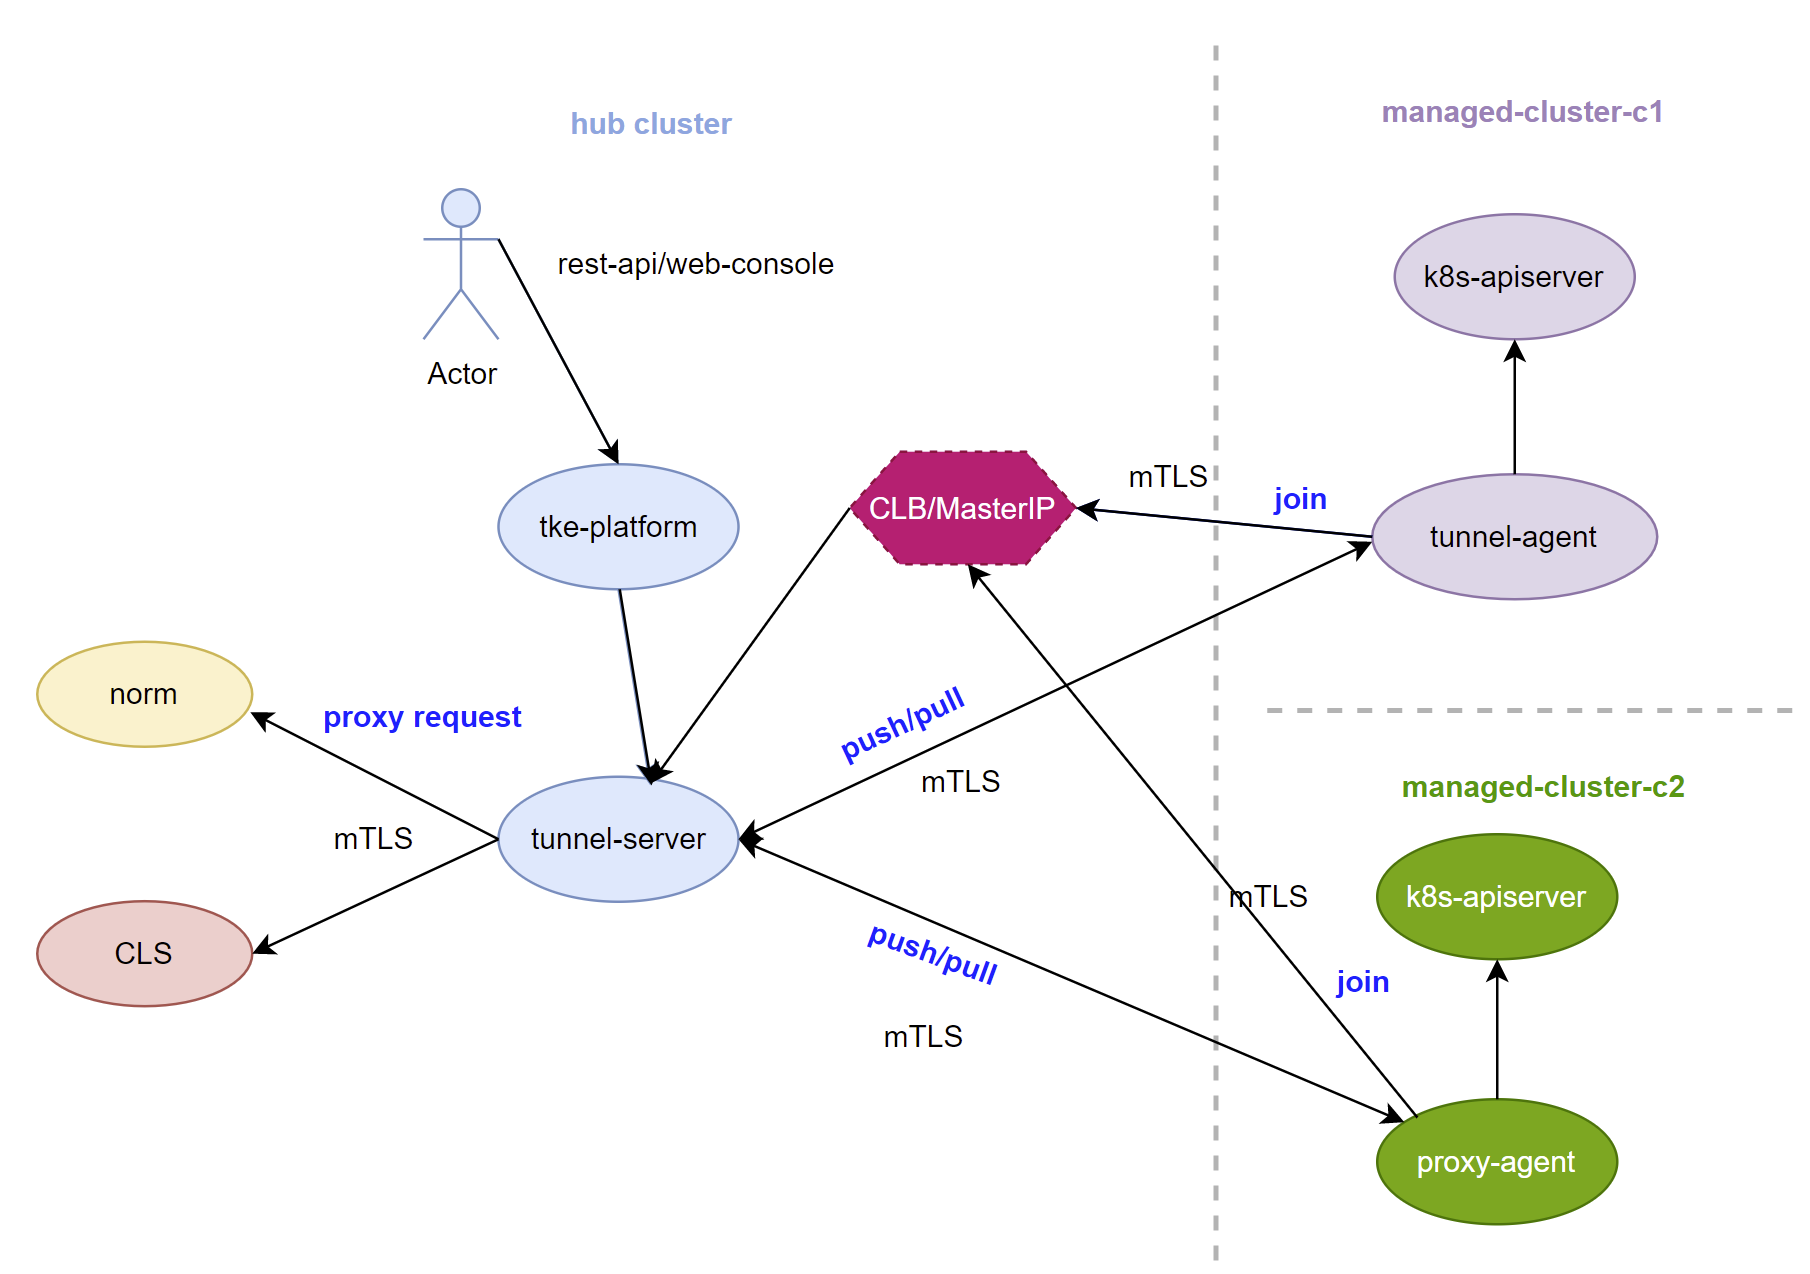
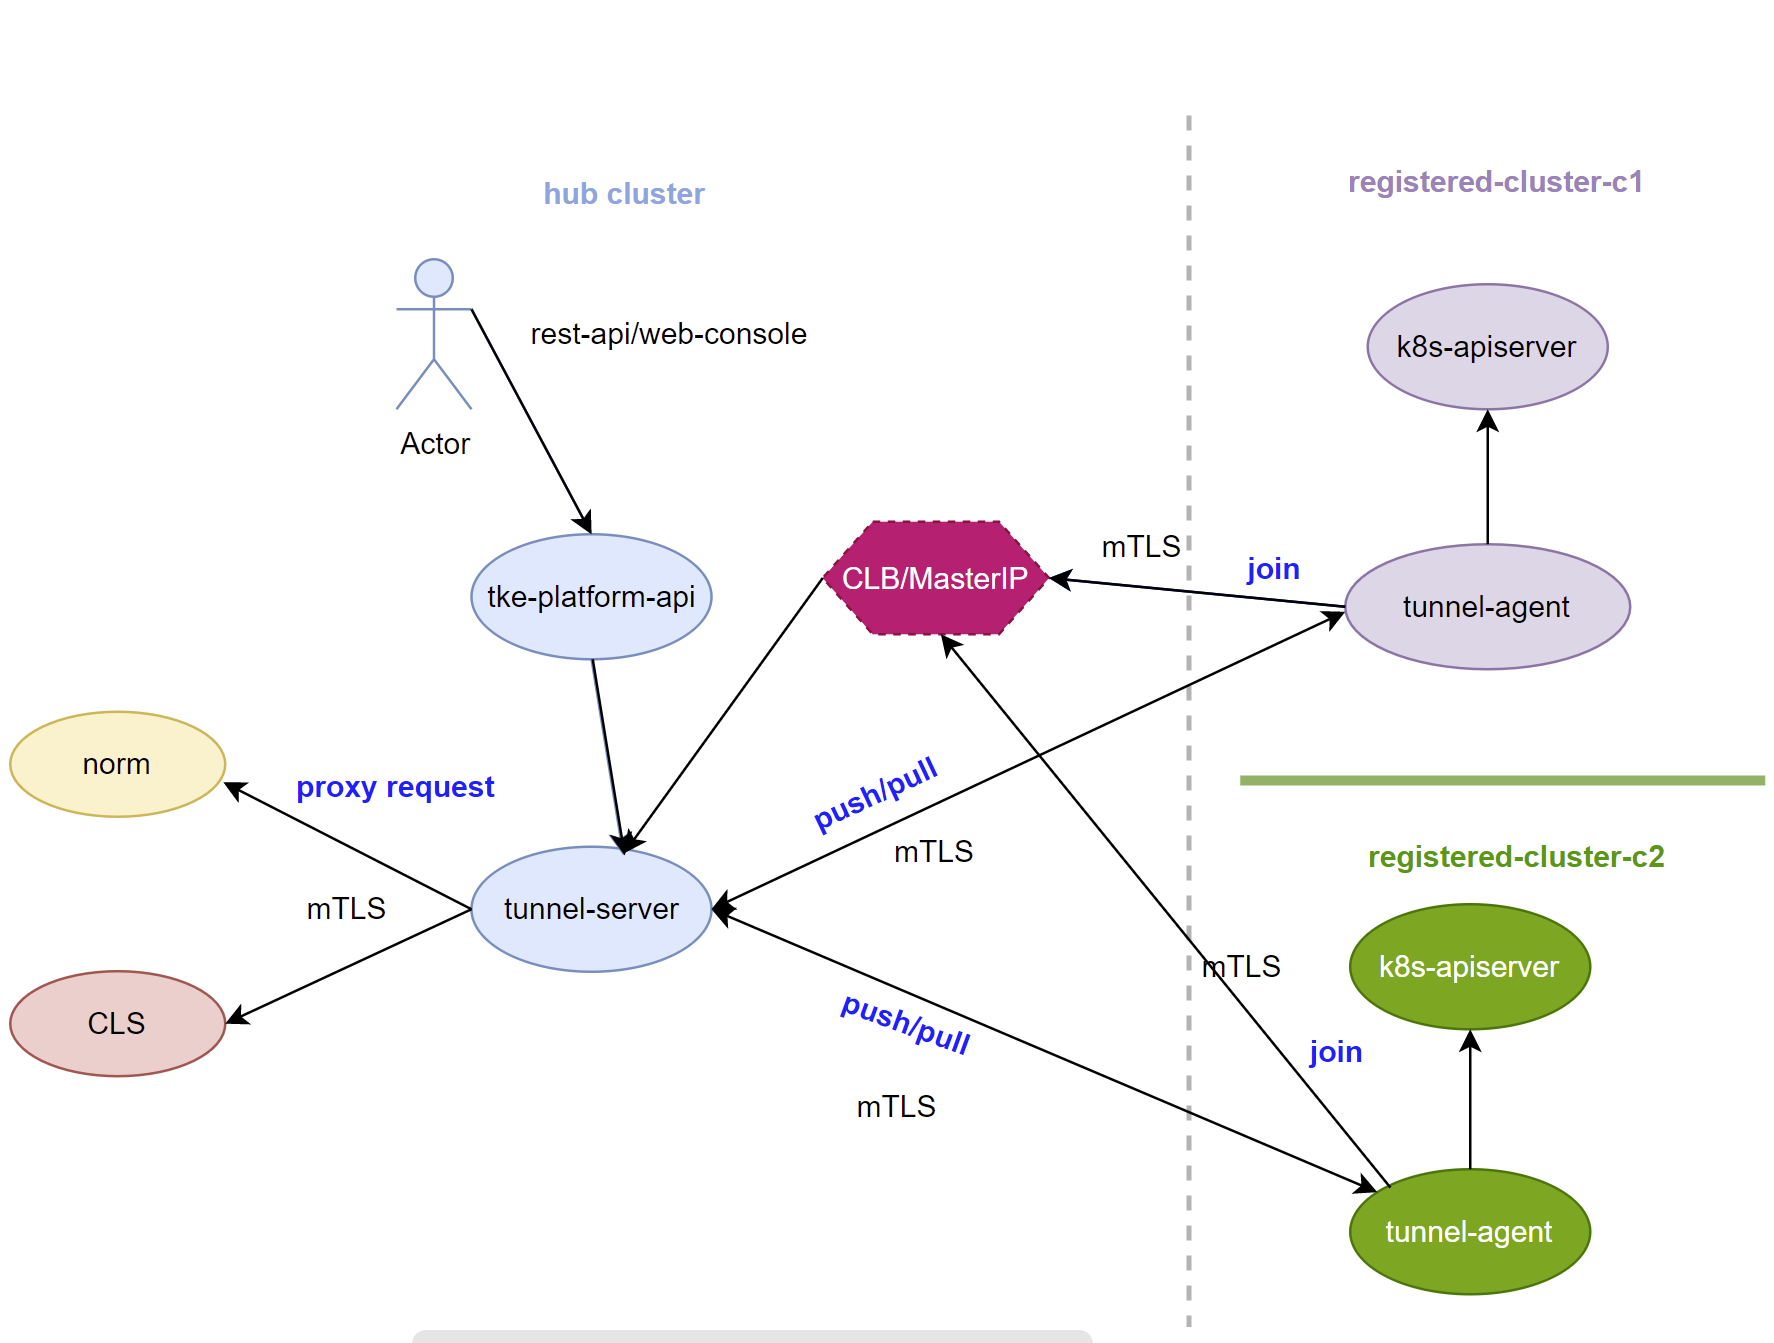
update readme

diff --git a/README.md b/README.md
@@ -34,9 +34,13 @@ The most of kubernates clusters reside in private IDC or public cloud such as `T
 
 5. A new cluster type named `Registered` against existing `Baremetal` and `Imported` cluster,  that indicates the registered cluster join to hub cluster by tunnel agent
 
-## Cluster register work workflow 
+## Architecture
 
 <img src="docs/img/arch.png" title="architecture">
+
+## Cluster register work workflow 
+
+<img src="docs/img/register-workflow.png" title="workflow">
 
 ## Build binary
 
@@ -108,7 +112,7 @@ kubectl label nodes 10.0.0.80 platform.tkestack.io/is-tunnel-server=true
 kubectl create -f config/setup/excalibur-tunnel-server.yaml
 ```
 
-2. Get tunnel agent service account `ca` and `token` on `hub cluster`, then fill with corresponding section to secret `tke-tunnel-agent-secret` in `tke-tunnel-agent.yaml`
+2. Get tunnel agent service account `ca` and `token` on `hub cluster`, then fill with corresponding section to secret `excalibur-tunnel-agent-secret` in `excalibur-tunnel-agent.yaml`
 
 ```
 ## ca.crt
@@ -141,9 +145,9 @@ client =HTTP-CONNECT=> (:10263) proxy (:10262) <=GRPC= agent =HTTP=> SimpleHTTPS
 
 ```
 root@VM-0-80-ubuntu:~# kubectl get po -A |grep tunn
-kube-system   tke-tunnel-server-7854c5c54f-n4nbp        1/1     Running   1          151m
+kube-system   excalibur-tunnel-server-7854c5c54f-n4nbp        1/1     Running   1          151m
 root@VM-0-77-ubuntu:~# kubectl get po -A |grep tunn
-kube-system   tke-tunnel-agent-7597c6dd89-ncg52         1/1     Running   0          81m
+kube-system   excalibur-tunnel-agent-7597c6dd89-ncg52         1/1     Running   0          81m
 root@VM-0-77-ubuntu:~# 
 ```
 
@@ -154,18 +158,18 @@ root@VM-0-77-ubuntu:~# python -m SimpleHTTPServer
 Serving HTTP on 0.0.0.0 port 8000 ...
 ```
 
-3. Copy `tke-tunnel-client` binary (_output/local/bin/linux/amd64/) to tunnel server 
+3. Copy `excalibur-tunnel-client` binary (_output/local/bin/linux/amd64/) to tunnel server 
 
 ```
-root@VM-0-80-ubuntu:~# kubectl cp tke-tunnel-client `kubectl get po -l k8s-app=tke-tunnel-server -n tkestack -o jsonpath="{.items[0].metadata.name}"`:/ -n tkestack 
+root@VM-0-80-ubuntu:~# kubectl cp excalibur-tunnel-client `kubectl get po -l k8s-app=excalibur-tunnel-server -n tkestack -o jsonpath="{.items[0].metadata.name}"`:/ -n tkestack 
 ```
 
 4. Run client to get SimpleHTTPServer response by tunnel
 
 ```
-root@VM-0-80-ubuntu:~# kubectl exec -it `kubectl get po  -l k8s-app=tke-tunnel-server -n tkestack -o jsonpath="{.items[0].metadata.name}"` -n tkestack sh
+root@VM-0-80-ubuntu:~# kubectl exec -it `kubectl get po  -l k8s-app=excalibur-tunnel-server -n tkestack -o jsonpath="{.items[0].metadata.name}"` -n tkestack sh
 kubectl exec [POD] [COMMAND] is DEPRECATED and will be removed in a future version. Use kubectl exec [POD] -- [COMMAND] instead.
-/ # ./tke-tunnel-client --ca-cert=/run/secrets/kubernetes.io/serviceaccount/ca.crt --client-cert=/var/lib/tunnel-server/pki/tunnel-server-current.pem    --client-key=./var/lib/tunnel-server/pki/tunnel-server-current.pem  --proxy-host=132.232.31.102  --proxy-port=31503 --mode=http-connect  --request-host=172.22.0.77  --request-port=8000 --request-path=""
+/ # ./excalibur-tunnel-client --ca-cert=/run/secrets/kubernetes.io/serviceaccount/ca.crt --client-cert=/var/lib/tunnel-server/pki/tunnel-server-current.pem    --client-key=./var/lib/tunnel-server/pki/tunnel-server-current.pem  --proxy-host=132.232.31.102  --proxy-port=31503 --mode=http-connect  --request-host=172.22.0.77  --request-port=8000 --request-path=""
 I0228 23:40:17.032519     122 client.go:106] ClientCert set to "/var/lib/tunnel-server/pki/tunnel-server-current.pem".
 I0228 23:40:17.032555     122 client.go:107] ClientKey set to "./var/lib/tunnel-server/pki/tunnel-server-current.pem".
 I0228 23:40:17.032570     122 client.go:108] CACert set to "/run/secrets/kubernetes.io/serviceaccount/ca.crt".
@@ -228,11 +232,11 @@ client =HTTP-CONNECT=> (:10263) proxy (:10262) <=GRPC= agent =HTTP=> K8S API ser
 ```
 
 
-2.   Base on case 1,   copy `kubeconfig` binary to tunnel server pod
+2. Base on case 1, copy `kubeconfig` binary to tunnel server pod
 
 ```
 ## get admin token
-root@VM-0-77-ubuntu:~#sudo kubectl -n tkestack describe secret $(sudo kubectl -n tkestack get secret | (grep tke-tunnel-agent-sa-token || echo "$_") | awk '{print $1}') | grep token: | awk '{print $2}'
+root@VM-0-77-ubuntu:~#sudo kubectl -n tkestack describe secret $(sudo kubectl -n tkestack get secret | (grep excalibur-tunnel-agent-sa-token || echo "$_") | awk '{print $1}') | grep token: | awk '{print $2}'
 
 root@VM-0-77-ubuntu:~/mcm/excalibur# cat kubeconfig
 apiVersion: v1
@@ -252,7 +256,7 @@ users:
 - name: default-user
   user:
     token: <admin-token>
-root@VM-0-80-ubuntu:~/mcm/excalibur# kubectl cp kubeconfig `kubectl get po -l k8s-app=tke-tunnel-server -n tkestack -o jsonpath="{.items[0].metadata.name}"`:/ -n tkestack         
+root@VM-0-80-ubuntu:~/mcm/excalibur# kubectl cp kubeconfig `kubectl get po -l k8s-app=excalibur-tunnel-server -n tkestack -o jsonpath="{.items[0].metadata.name}"`:/ -n tkestack         
 root@VM-0-80-ubuntu:~/mcm/excalibur# 
 
 ```
@@ -260,9 +264,9 @@ root@VM-0-80-ubuntu:~/mcm/excalibur#
 3. Run client to get all pods from managed cluster by tunnel
 
 ```
-root@VM-0-80-ubuntu:~/mcm/excalibur# kubectl exec -it `kubectl get po  -l k8s-app=tke-tunnel-server -n tkestack -o jsonpath="{.items[0].metadata.name}"` -n tkestack sh           
+root@VM-0-80-ubuntu:~/mcm/excalibur# kubectl exec -it `kubectl get po  -l k8s-app=excalibur-tunnel-server -n tkestack -o jsonpath="{.items[0].metadata.name}"` -n tkestack sh           
 kubectl exec [POD] [COMMAND] is DEPRECATED and will be removed in a future version. Use kubectl exec [POD] -- [COMMAND] instead.
-/ # ./tke-tunnel-client --ca-cert=/run/secrets/kubernetes.io/serviceaccount/ca.crt --client-cert=/var/lib/tunnel-server/pki/tunnel-server-current.pem    --client-key=/var/lib/tunnel-server/pki/tunnel-server-current.pem  --proxy-host=132.232.31.102  --proxy-port=31503 --mode=http-connect  --request-host=kubernetes.default --request-port=443 --kubeconfig=./kubeconfig
+/ # ./excalibur-tunnel-client --ca-cert=/run/secrets/kubernetes.io/serviceaccount/ca.crt --client-cert=/var/lib/tunnel-server/pki/tunnel-server-current.pem    --client-key=/var/lib/tunnel-server/pki/tunnel-server-current.pem  --proxy-host=132.232.31.102  --proxy-port=31503 --mode=http-connect  --request-host=kubernetes.default --request-port=443 --kubeconfig=./kubeconfig
 I0301 01:11:04.638863     114 client.go:106] ClientCert set to "/var/lib/tunnel-server/pki/tunnel-server-current.pem".
 I0301 01:11:04.638888     114 client.go:107] ClientKey set to "/var/lib/tunnel-server/pki/tunnel-server-current.pem".
 I0301 01:11:04.638903     114 client.go:108] CACert set to "/run/secrets/kubernetes.io/serviceaccount/ca.crt".
@@ -285,7 +289,7 @@ Pod 7: kube-controller-manager-172.22.0.77
 Pod 8: kube-proxy-gfmhz
 Pod 9: kube-scheduler-172.22.0.77
 Pod 10: metrics-server-v0.3.6-794ccd69c8-nhmpd
-Pod 11: tke-tunnel-agent-55889f9c5c-jqwzs
+Pod 11: excalibur-tunnel-agent-55889f9c5c-jqwzs
 Pod 12: influxdb-0
 Pod 13: tke-auth-api-5ddc987db5-6k9vq
 Pod 14: tke-auth-api-5ddc987db5-z62s9
@@ -327,7 +331,7 @@ client =HTTP over GRPC+UDS=> (/tmp/uds-proxy) proxy (:10262) <=GRPC= agent =HTTP
   +----------------------------------------------------+
 ```
 
-1.  Base on case 2,  add `--uds-name=/tmp/uds-proxy` by `kubectl edit deployment tke-tunnel-server -n tkestack` on `managed cluster`
+1. Base on case 2,  add `--uds-name=/tmp/uds-proxy` by `kubectl edit deployment tke-excalibur-server -n tkestack` on `managed cluster`
 
 ```
          - --bind-address=0.0.0.0
@@ -338,14 +342,14 @@ client =HTTP over GRPC+UDS=> (/tmp/uds-proxy) proxy (:10262) <=GRPC= agent =HTTP
 
 ```
 
-2. Run client to get all pods from managed cluster by tunnel
+2. Run client to get all pods from registered cluster by tunnel
 
 ```
-root@VM-0-80-ubuntu:~/mcm/excalibur# kubectl cp tke-tunnel-client `kubectl get po -l k8s-app=tke-tunnel-server -n tkestack -o jsonpath="{.items[0].metadata.name}"`:/ -n tkestack  
-root@VM-0-80-ubuntu:~/mcm/excalibur# kubectl cp kubeconfig `kubectl get po -l k8s-app=tke-tunnel-server -n tkestack -o jsonpath="{.items[0].metadata.name}"`:/ -n tkestack  
-root@VM-0-80-ubuntu:~/mcm/excalibur# kubectl exec -it `kubectl get po  -l k8s-app=tke-tunnel-server -n tkestack -o jsonpath="{.items[0].metadata.name}"` -n tkestack sh
+root@VM-0-80-ubuntu:~/mcm/excalibur# kubectl cp excalibur-tunnel-client `kubectl get po -l k8s-app=excalibur-tunnel-server -n tkestack -o jsonpath="{.items[0].metadata.name}"`:/ -n tkestack  
+root@VM-0-80-ubuntu:~/mcm/excalibur# kubectl cp kubeconfig `kubectl get po -l k8s-app=excalibur-tunnel-server -n tkestack -o jsonpath="{.items[0].metadata.name}"`:/ -n tkestack  
+root@VM-0-80-ubuntu:~/mcm/excalibur# kubectl exec -it `kubectl get po  -l k8s-app=excalibur-tunnel-server -n tkestack -o jsonpath="{.items[0].metadata.name}"` -n tkestack sh
 kubectl exec [POD] [COMMAND] is DEPRECATED and will be removed in a future version. Use kubectl exec [POD] -- [COMMAND] instead.
-/ # ./tke-tunnel-client  --proxy-uds=/tmp/proxy-master --proxy-host=""  --proxy-port=0 --mode=http-connect  --request-host=kubernetes.default  --request-port=443 --kubeconfig=./kubeconfig
+/ # ./excalibur-tunnel-client  --proxy-uds=/tmp/proxy-master --proxy-host=""  --proxy-port=0 --mode=http-connect  --request-host=kubernetes.default  --request-port=443 --kubeconfig=./kubeconfig
 I0302 08:52:56.592649     243 client.go:106] ClientCert set to "".
 I0302 08:52:56.592690     243 client.go:107] ClientKey set to "".
 I0302 08:52:56.592708     243 client.go:108] CACert set to "".
@@ -368,7 +372,7 @@ Pod 7: kube-controller-manager-172.22.0.77
 Pod 8: kube-proxy-gfmhz
 Pod 9: kube-scheduler-172.22.0.77
 Pod 10: metrics-server-v0.3.6-794ccd69c8-nhmpd
-Pod 11: tke-tunnel-agent-6bc94c58f7-gg458
+Pod 11: excalibur-tunnel-agent-6bc94c58f7-gg458
 Pod 12: influxdb-0
 Pod 13: tke-auth-api-5ddc987db5-6k9vq
 Pod 14: tke-auth-api-5ddc987db5-z62s9
@@ -406,6 +410,6 @@ Pod 41: tke-registry-controller-7bfb4799d8-ttt2n
 
 Currently, only support `PreStartTunnelAgent` and `PostStartTunnelAgent` hook to execute customized logic for different  cloud provider, for example:
 
-1. Tunnel agent responsible for report the managed cluster `admin` token to Tunnel server and persist it to global/meta cluster so that `tke-platform` use it to create k8s `ClientSet` to operator managed cluster, `tke` and `tkestack` provider will implements different logic according to the case 
+1. Tunnel agent responsible for report the registered cluster `admin` token to Tunnel server and persist it to global/meta cluster so that `tke-platform` use it to create k8s `ClientSet` to operator managed cluster, `tke` and `tkestack` provider will implements different logic according to the case 
 
 ## HA
